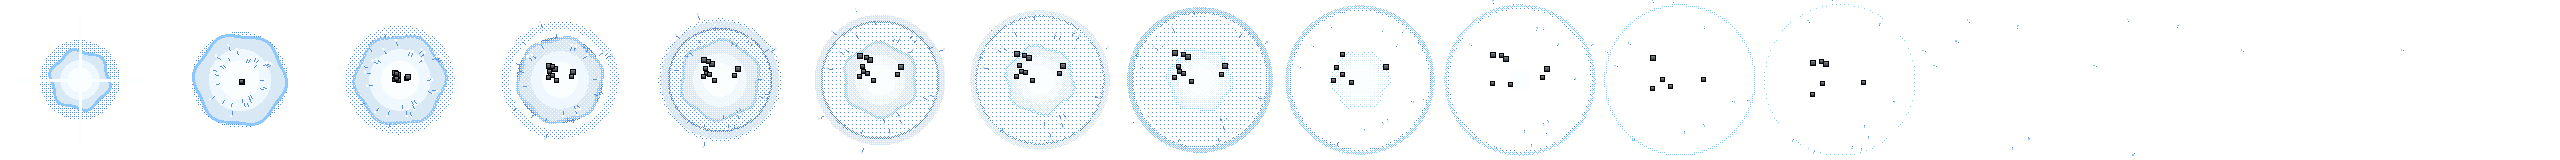
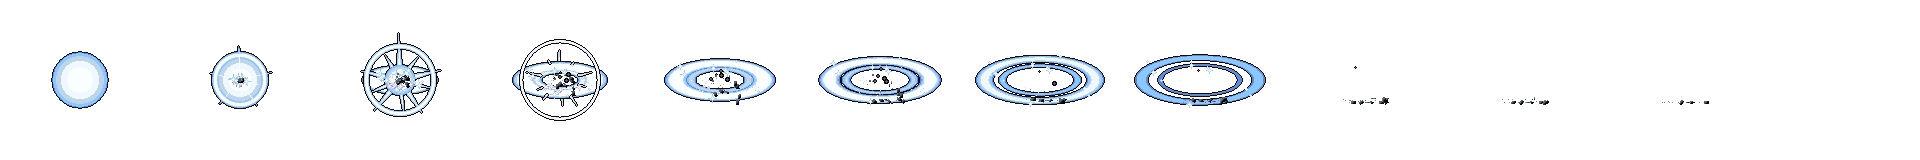
feat: 골렘 레이저 충전·폭발 이펙트를 PixelLab 그림으로 교체
사용자 요청으로 PixelLab VFX Creator 로 다시 만든 그림을 쓴다.
충전은 88×88 24장(충전 진행도로 고름), 폭발은 160×160 12장 16fps. 레이저 단면은 그대로.

diff --git a/game/config.py b/game/config.py
@@ -300,25 +300,25 @@ GOLEM_LASER = {"windup": 4.0, "damage": 40, "beam_time": 0.3, "size": 4}
 # 스프라이트 시트: frame_size × frame_size 원본 프레임을 columns 개씩 줄지어 놓은 그림 (왼쪽 위부터 오른쪽으로).
 # 프레임 가운데가 이펙트가 터지는 지점이고, RENDER_SCALE 로 nearest 확대해 그린다.
 EFFECT_IMAGE_DIR = PROJECT_ROOT / "assets" / "images" / "effects"
-# ④ 레이저 그림 (2026-11-18 사용자 요청). 생성 스크립트: assets/concepts/vfx/laser/build_golem_laser.py
-#   충전 구: 40×40 칸 (2026-11-18 사용자 요청: 코어에 비해 너무 커서 다 커도 지름 약 16픽셀), 줄 = 크기 단계(충전 진행도로 고름), 칸 = 빨려 드는 빛 위치(phase_fps 로 돌림). 골렘 코어에 그린다.
+# ④ 레이저 그림 (2026-11-18 사용자 요청: PixelLab VFX Creator 로 다시 만듦 'Golem laser charge' / 'Golem laser blast').
+#   옮기는 스크립트: assets/concepts/vfx/laser/pixellab/pack_for_game.py
+#   충전: 88×88 칸 24장 가로 한 줄, 칸 가운데 = 코어. 빛 알갱이가 모여 구가 코어의 두 배쯤까지 커진다. 충전 진행도로 고른다.
 #   core: 방향별 코어 자리 (그림 가운데에서 오른쪽, 발 밑에서 위로 원본 픽셀). 서쪽은 동쪽을 뒤집은 그림.
 GOLEM_LASER_CHARGE = {
     "path": EFFECT_IMAGE_DIR / "golem_laser_charge.png",
-    "frame_size": 40, "stages": 12, "phases": 4, "phase_fps": 12,
+    "frame_size": 88, "frames": 24,
     "core": {"south": (0, 45), "north": (0, 46), "east": (16, 51), "west": (-16, 51)},
 }
 # 하얀 레이저: 단면 그림을 코어에서 조준점까지 늘려 돌려 그린다. 굵기(화면 픽셀)는 beam_time 동안 0 으로 줄어든다.
 GOLEM_LASER_BEAM = {"path": EFFECT_IMAGE_DIR / "golem_laser_beam.png", "thickness": 28}
-# 조준점 폭발: 흰 섬광 → 충격 고리 → 불꽃·돌 파편, 끝나면 아무것도 남지 않음. 인물 위에 그림, 화면 흔들림.
+# 조준점 폭발 (PixelLab): 흰 섬광 → 빛살 고리 → 바닥으로 퍼지는 충격 고리 → 불꽃·돌 파편, 끝나면 아무것도 남지 않음. 인물 위에 그림, 화면 흔들림.
 GOLEM_LASER_BLAST_EFFECT = {
     "path": EFFECT_IMAGE_DIR / "golem_laser_blast.png",
-    "frame_size": 160,
-    "columns": 16,
-    "frames": 16,
-    "fps": 18,
+    "frame_size": 160,  # 원본 픽셀 (칸 32픽셀 기준), RENDER_SCALE 로 키워 그림
+    "columns": 12,
+    "frames": 12,
+    "fps": 16,
     "shake": {"amplitude": 10, "duration": 0.4, "frequency": 20},
-    "draw_tiles": 5,  # 4×4 폭발 칸보다 조금 크게 (고리가 범위 둘레까지 퍼짐)
     "on_top": True,
 }
 # 화면 흔들림: 카메라에 더하는 화면 픽셀 오프셋. amplitude(픽셀)에서 duration(초) 동안 0 으로 줄고 frequency(번/초)로 떨림

diff --git a/game/enemies/golem.py b/game/enemies/golem.py
@@ -502,14 +502,11 @@ class Golem:
 
     @property
     def laser_charge_frame(self) -> int | None:
-        """충전 구 그림 번호 (④ 예고 중에만): 줄 = 충전 진행도로 고른 크기 단계, 칸 = 지난 시간으로 돌린 빛 알갱이."""
+        """충전 그림 번호 (④ 예고 중에만): 충전 진행도로 고른다 (빛이 모이며 구가 커짐)."""
         if not (self.state == WINDUP and self.pattern == LASER):
             return None
-        spec = config.GOLEM_LASER_CHARGE
-        elapsed = config.GOLEM_LASER["windup"] - max(0.0, self.state_left)
-        stage = min(spec["stages"] - 1, int(self.windup_progress * spec["stages"]))
-        phase = int(elapsed * spec["phase_fps"]) % spec["phases"]
-        return stage * spec["phases"] + phase
+        frames = config.GOLEM_LASER_CHARGE["frames"]
+        return min(frames - 1, int(self.windup_progress * frames))
 
     def _draw_laser(self, renderer, grid: Grid, cx: float, bottom: float) -> bool:
         """④ 충전 구(코어)·조준선, 발사 직후 하얀 레이저 (코어 → 조준점). 그린 것이 있으면 True."""
@@ -521,7 +518,7 @@ class Golem:
         if frame is not None:
             renderer.draw_line(core_x, core_y, ax, ay, self.warning_color())  # 조준선 (노랑, 발사가 가까울수록 진하게)
             size = spec["frame_size"]
-            return bool(renderer.draw_sheet_frame(str(spec["path"]), frame, spec["phases"], size, size,
+            return bool(renderer.draw_sheet_frame(str(spec["path"]), frame, spec["frames"], size, size,
                                                   core_x, core_y, size * s, size * s))
         if self.beam_left > 0.0:
             beam = config.GOLEM_LASER_BEAM

diff --git a/tests/test_effects.py b/tests/test_effects.py
@@ -94,7 +94,7 @@ class GolemStompEffectTest(unittest.TestCase):
         from PIL import Image
         charge = config.GOLEM_LASER_CHARGE
         with Image.open(charge["path"]) as im:
-            self.assertEqual(im.size, (charge["frame_size"] * charge["phases"], charge["frame_size"] * charge["stages"]))
+            self.assertEqual(im.size, (charge["frame_size"] * charge["frames"], charge["frame_size"]))
         blast = config.GOLEM_LASER_BLAST_EFFECT
         with Image.open(blast["path"]) as im:
             self.assertEqual(im.size, (blast["frame_size"] * blast["frames"], blast["frame_size"]))
